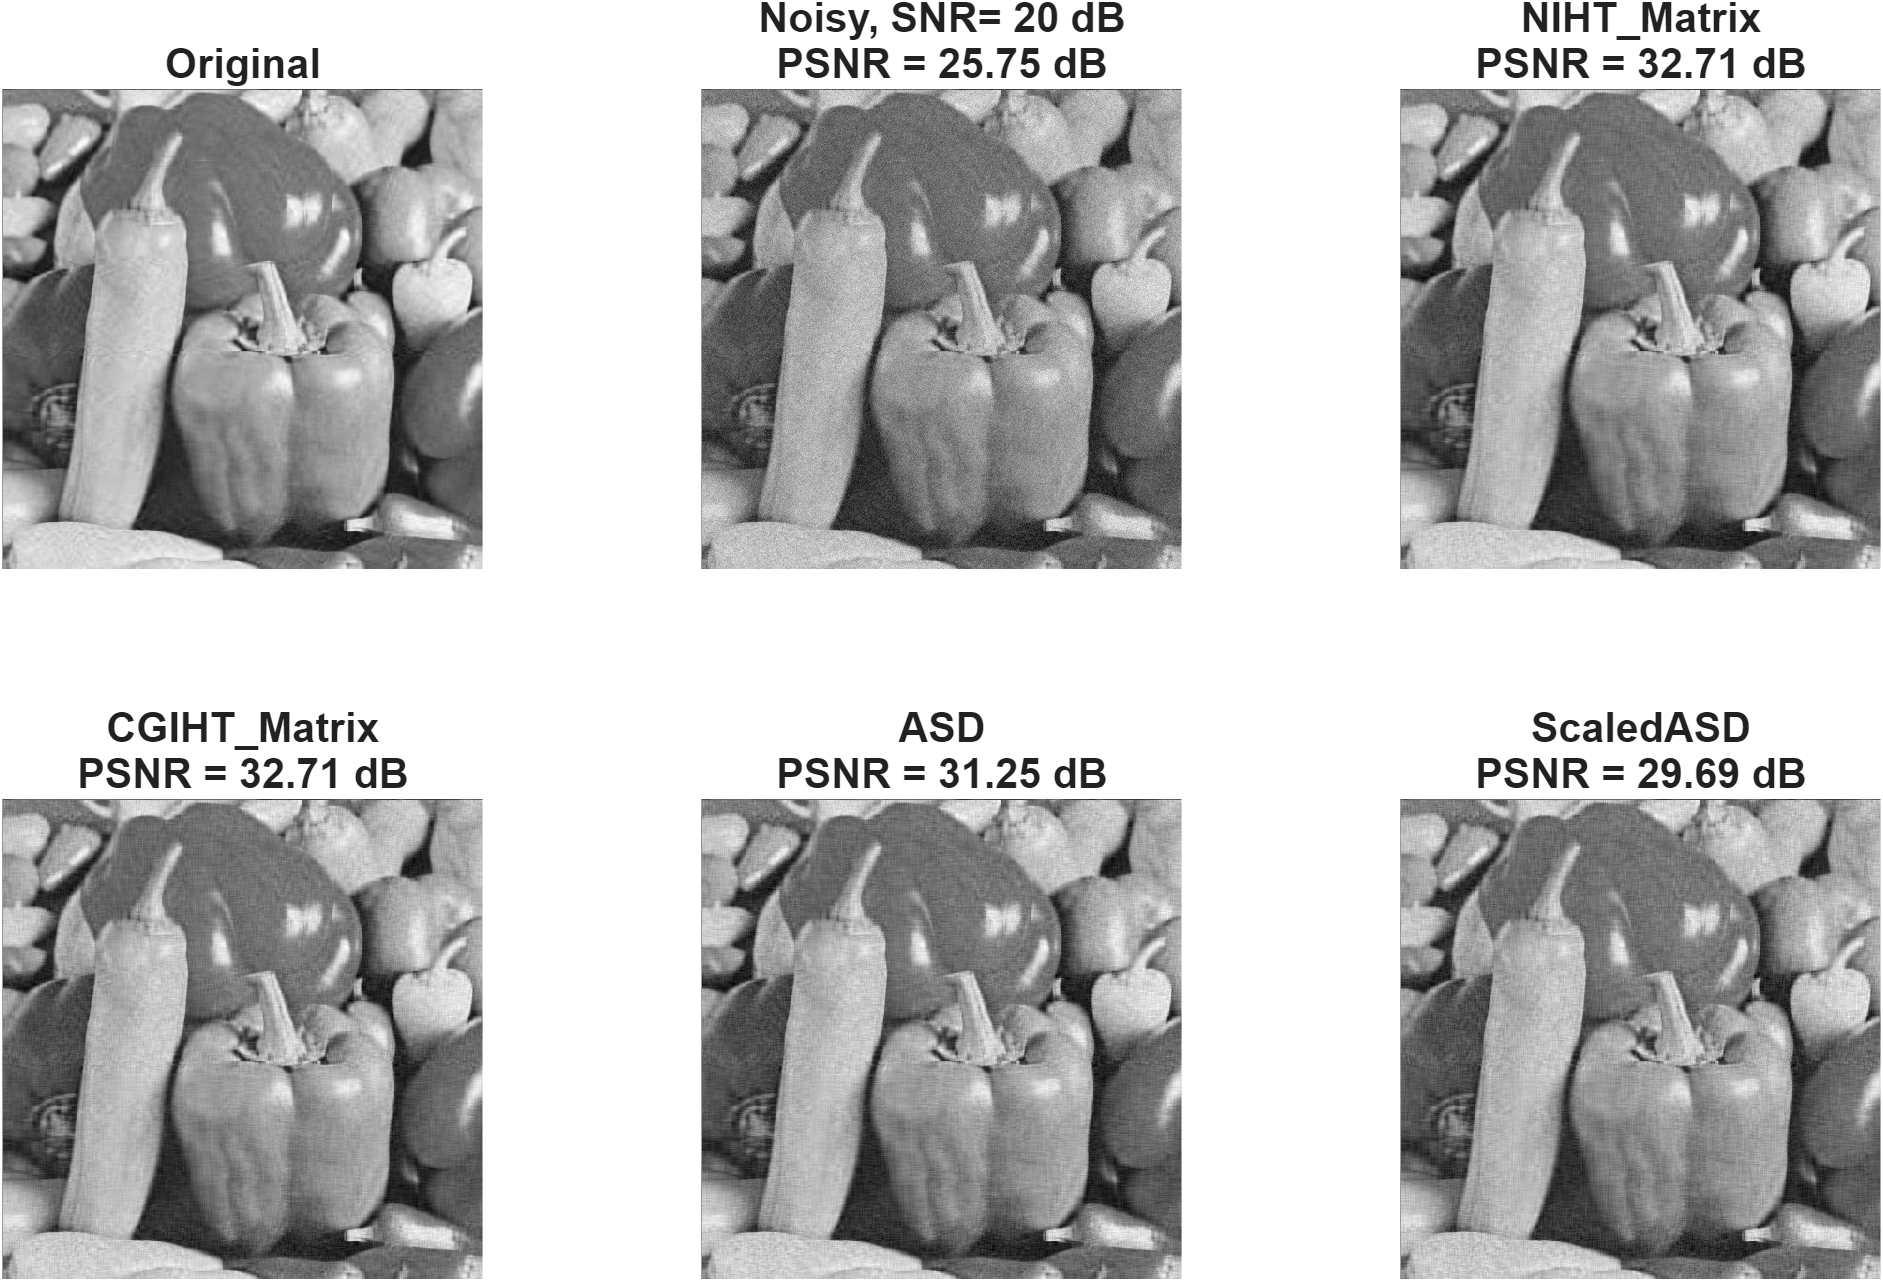
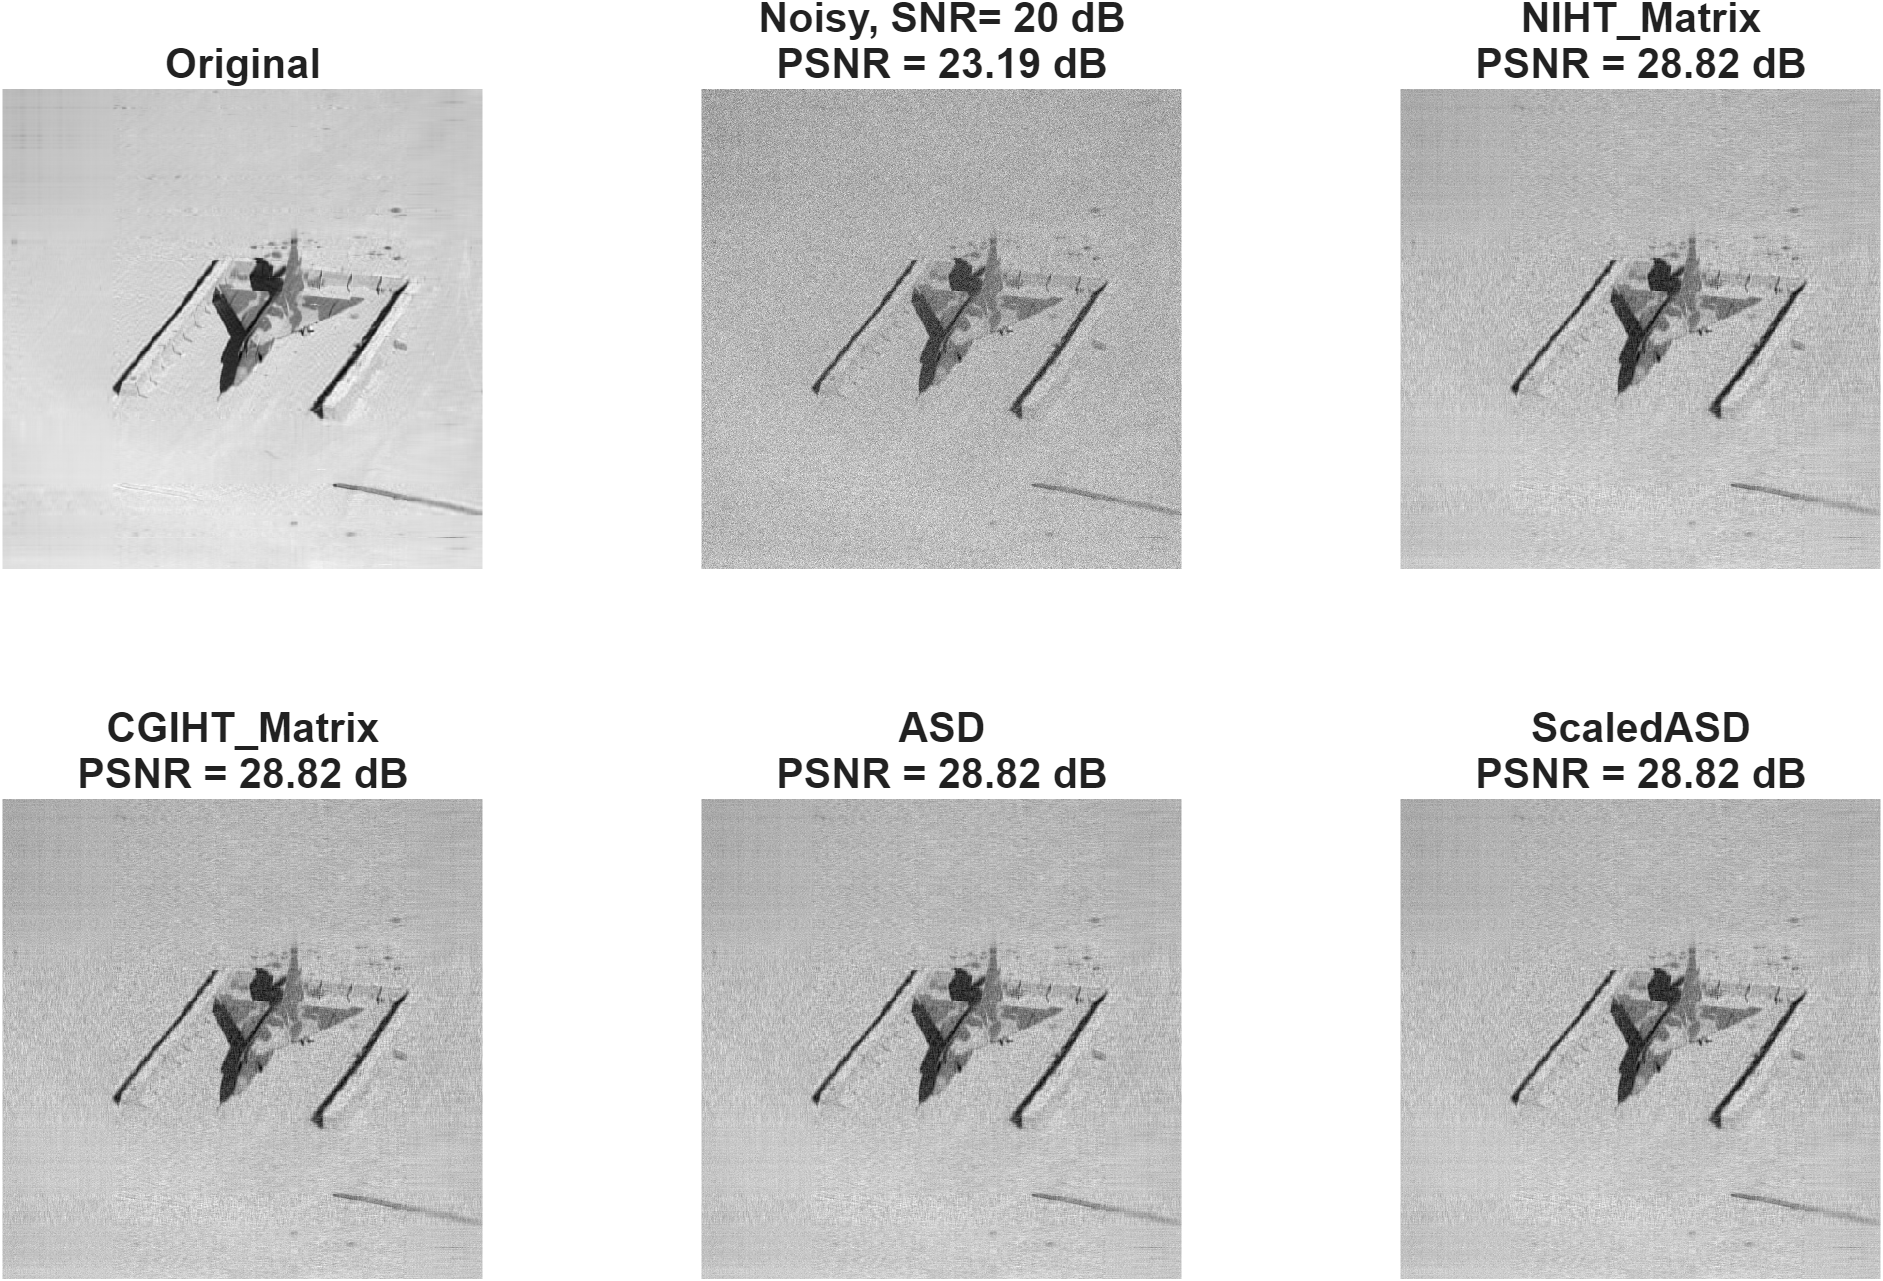
debug: investigate RandStream-based observation sampling
% Improved Documentation
% Mathematically, we should not expect a need to debug.

diff --git a/matrix_noise_v2.m b/matrix_noise_v2.m
@@ -1,25 +1,27 @@
-% Utility: matrix_noice_vN(alg_list, img, snr, delta)
+% Utility: matrix_noise(alg_list, img, snr, delta)
 %
 % Input:
 %   1) alg_list: "call names for my four algos"
 %   2) img: test image
-%   3) snr: signal-to-noise ratio (SNR) computed from Frobenius norm
+%   3) snr: signal-to-noise ratio (SNR)
 %   4) delta: undersampling ratio
 %
 % Output:
 %   1) image_results: results from each algorithm
 %   2) M: rank-50 truncated singular-value decomposition (SVD) of img
-%   3) inpaintOut:
-%   4) inpaint_psnr: peak SNR of inpaintOut relative to rank-50 benchmark
+%   3) inpaintOut: result from inpainting step
+%   4) inpaint_psnr: peak SNR of inpainted image
 
 function [image_results, M, inpaintOut, inpaint_psnr] = matrix_noise_v2(alg_list, img, snr, delta) %= random_inpaint(alg_name, img, snr) prior file
 
 % ======== read and normalize greyscale data
+
 X = imread(img);
 X = im2gray(X);
 X=double(X)/255;
 
 % ======== rank-50 SVD to allow recovery to arbitrary precision
+
 r = 50;
 [U, S, V] = svds(X,r);
 
@@ -29,34 +31,38 @@ M = U*S*V';
 
 [m, n] = size(M);
 
-% ======== initialize the observation space Omega
+% ======== initialize independent random number streams
 
-p = round(delta*m*n);
-Omega = randperm(m*n, p)';
+[sOmega, sNoise] = RandStream.create('mrg32k3a', 'NumStreams', 2);
 
-% if delta == 1
-%    Omega=(1:m*n)';
-% else
-%    A = zeros(m*n,1);
-%    A(1:p) = ones(p,1);
-%    [~,ind] = sort(randn(m*n,1));
-%    A = A(ind);
-%    A = reshape(A,m,n);
-% 
-%    [I, J] = find(A);
-%    Omega = sub2ind([m n], I, J);
-% end
+% ======== generate the observation space Omega
 
-% ======== restrict image approximation to observation space
+% p = round(delta*m*n);
+% Omega = randperm(sOmega, m*n, p)';
+
+if delta == 1
+   Omega=(1:m*n)';
+else
+   A = zeros(m*n,1);
+   A(1:p) = ones(p,1);
+   [~,ind] = sort(randn(sOmega,m*n,1));
+   A = A(ind);
+   A = reshape(A,m,n);
+
+   [I, J] = find(A);
+   Omega = sub2ind([m n], I, J);
+end
+
+% ======== restrict image approximation to observed entries
 
 data = M(Omega);
 
-% ======== generate random matrix restricted to observation space
+% ======== generate random matrix restricted to observed entries
 
-NN = randn(size(M));
+NN = randn(sNoise, size(M));
 NN = NN(Omega);
 
-% ======== normalize the random observations NN to the required snr
+% ======== image inpainting
 
 noiseLevel = norm(data) / (10^(snr/20)*norm(NN));
 NN = NN*noiseLevel;
@@ -70,15 +76,13 @@ inpaintOut(Omega) = data;
 
 inpaint_psnr = psnr(inpaintOut, M, 1);
 
-% Noise model
-%noise_opts.type = 'white';
-
-
 % ======== test algorithms on inpainted image
 
 image_results = cell(4, 1);
 
 opts = default_opts;
+disp('Options used:')
+disp(opts)
 
 fprintf('recovery starts...\n\n')
 
